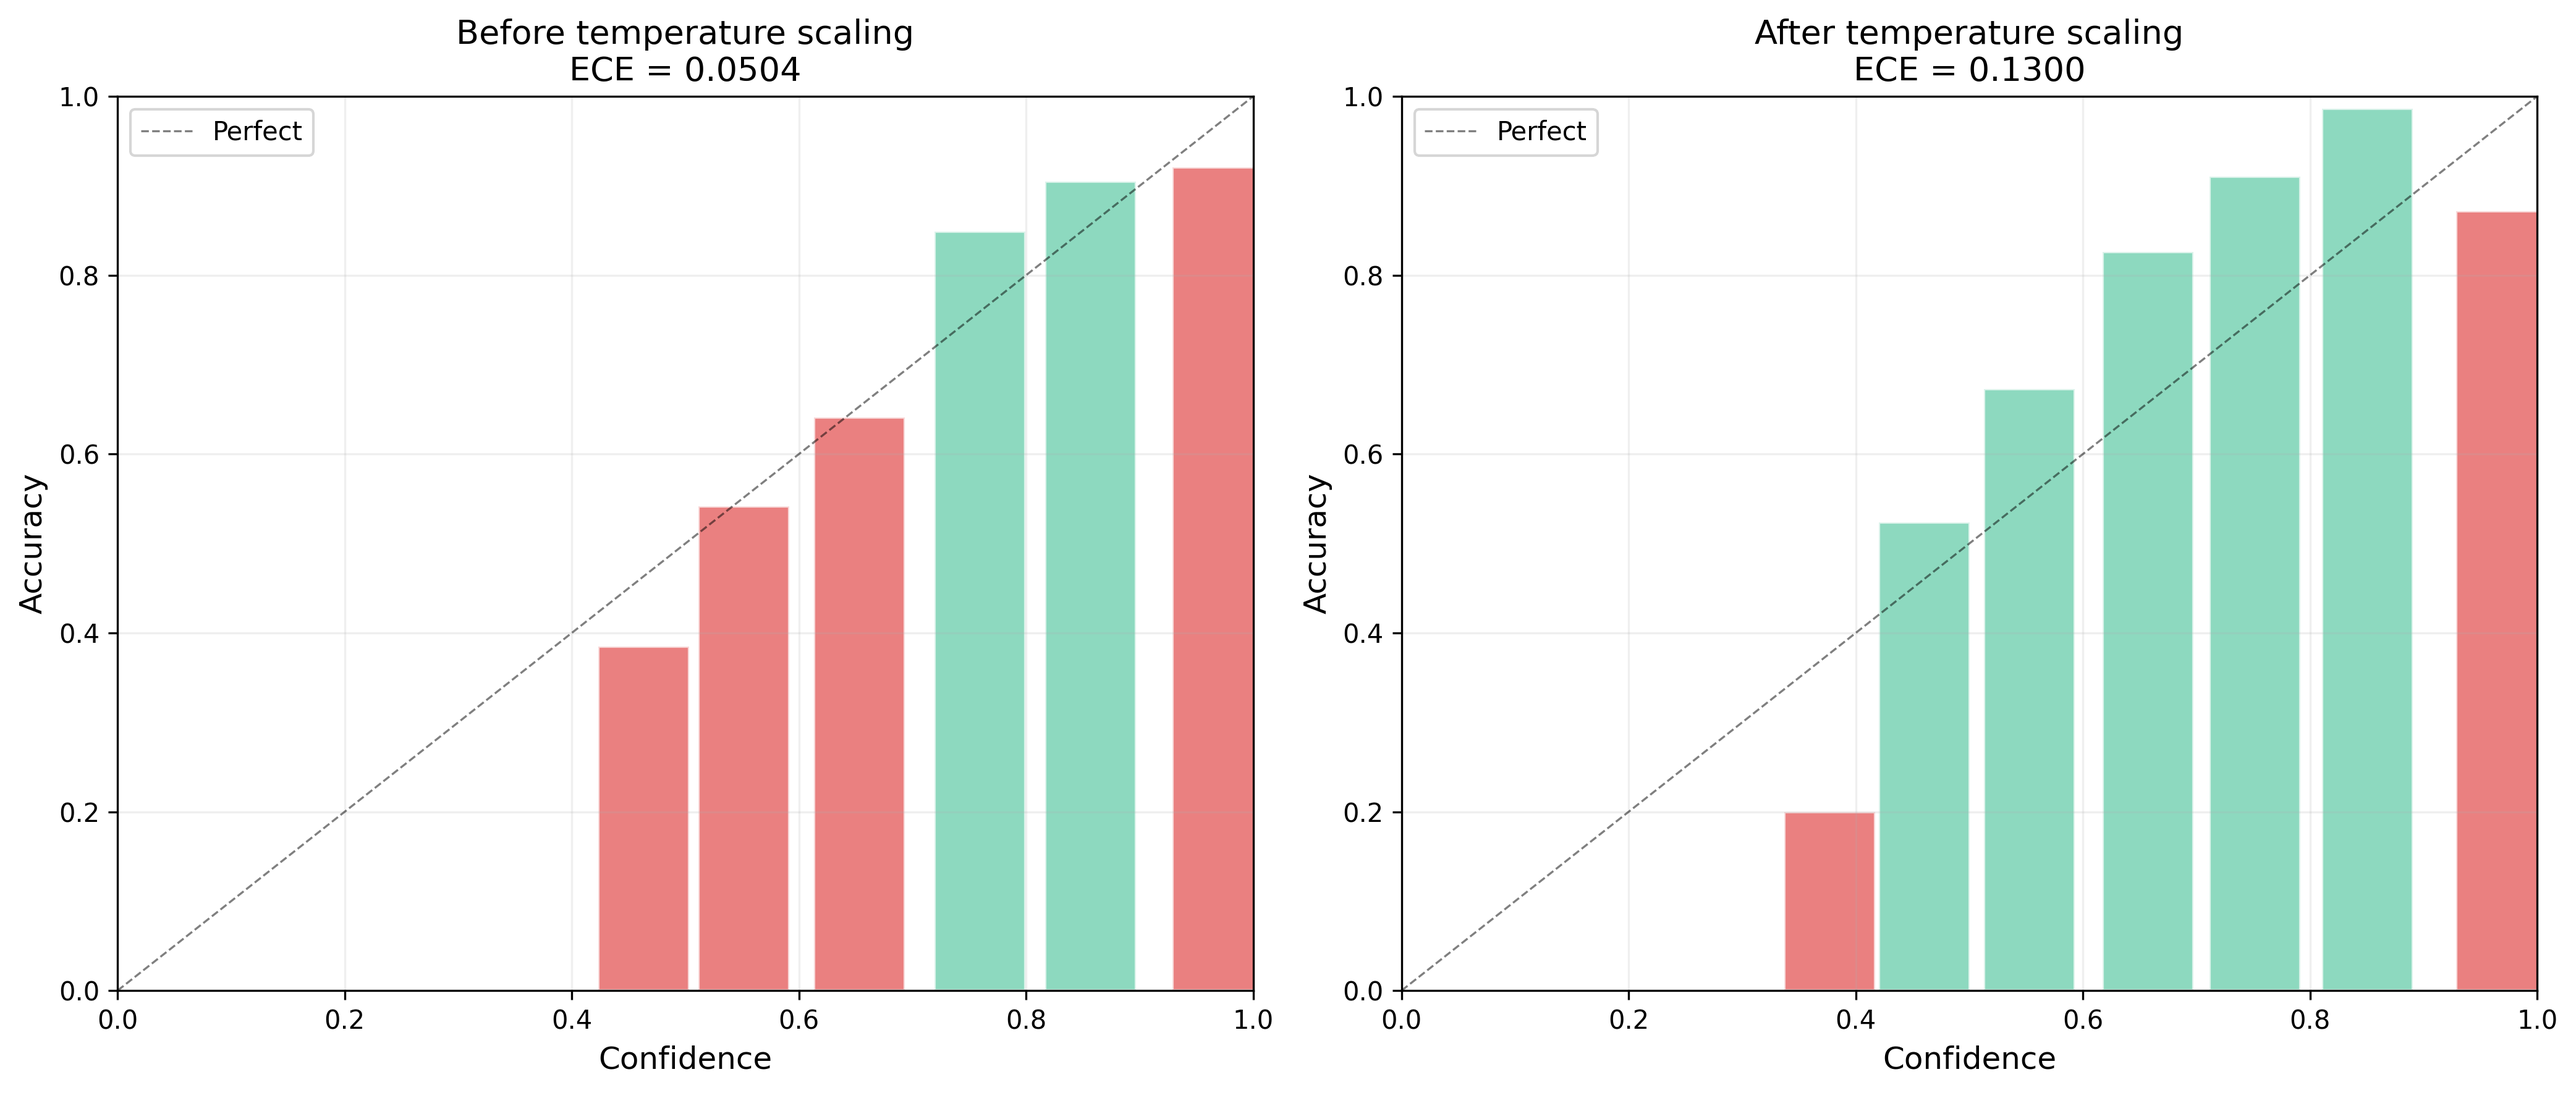
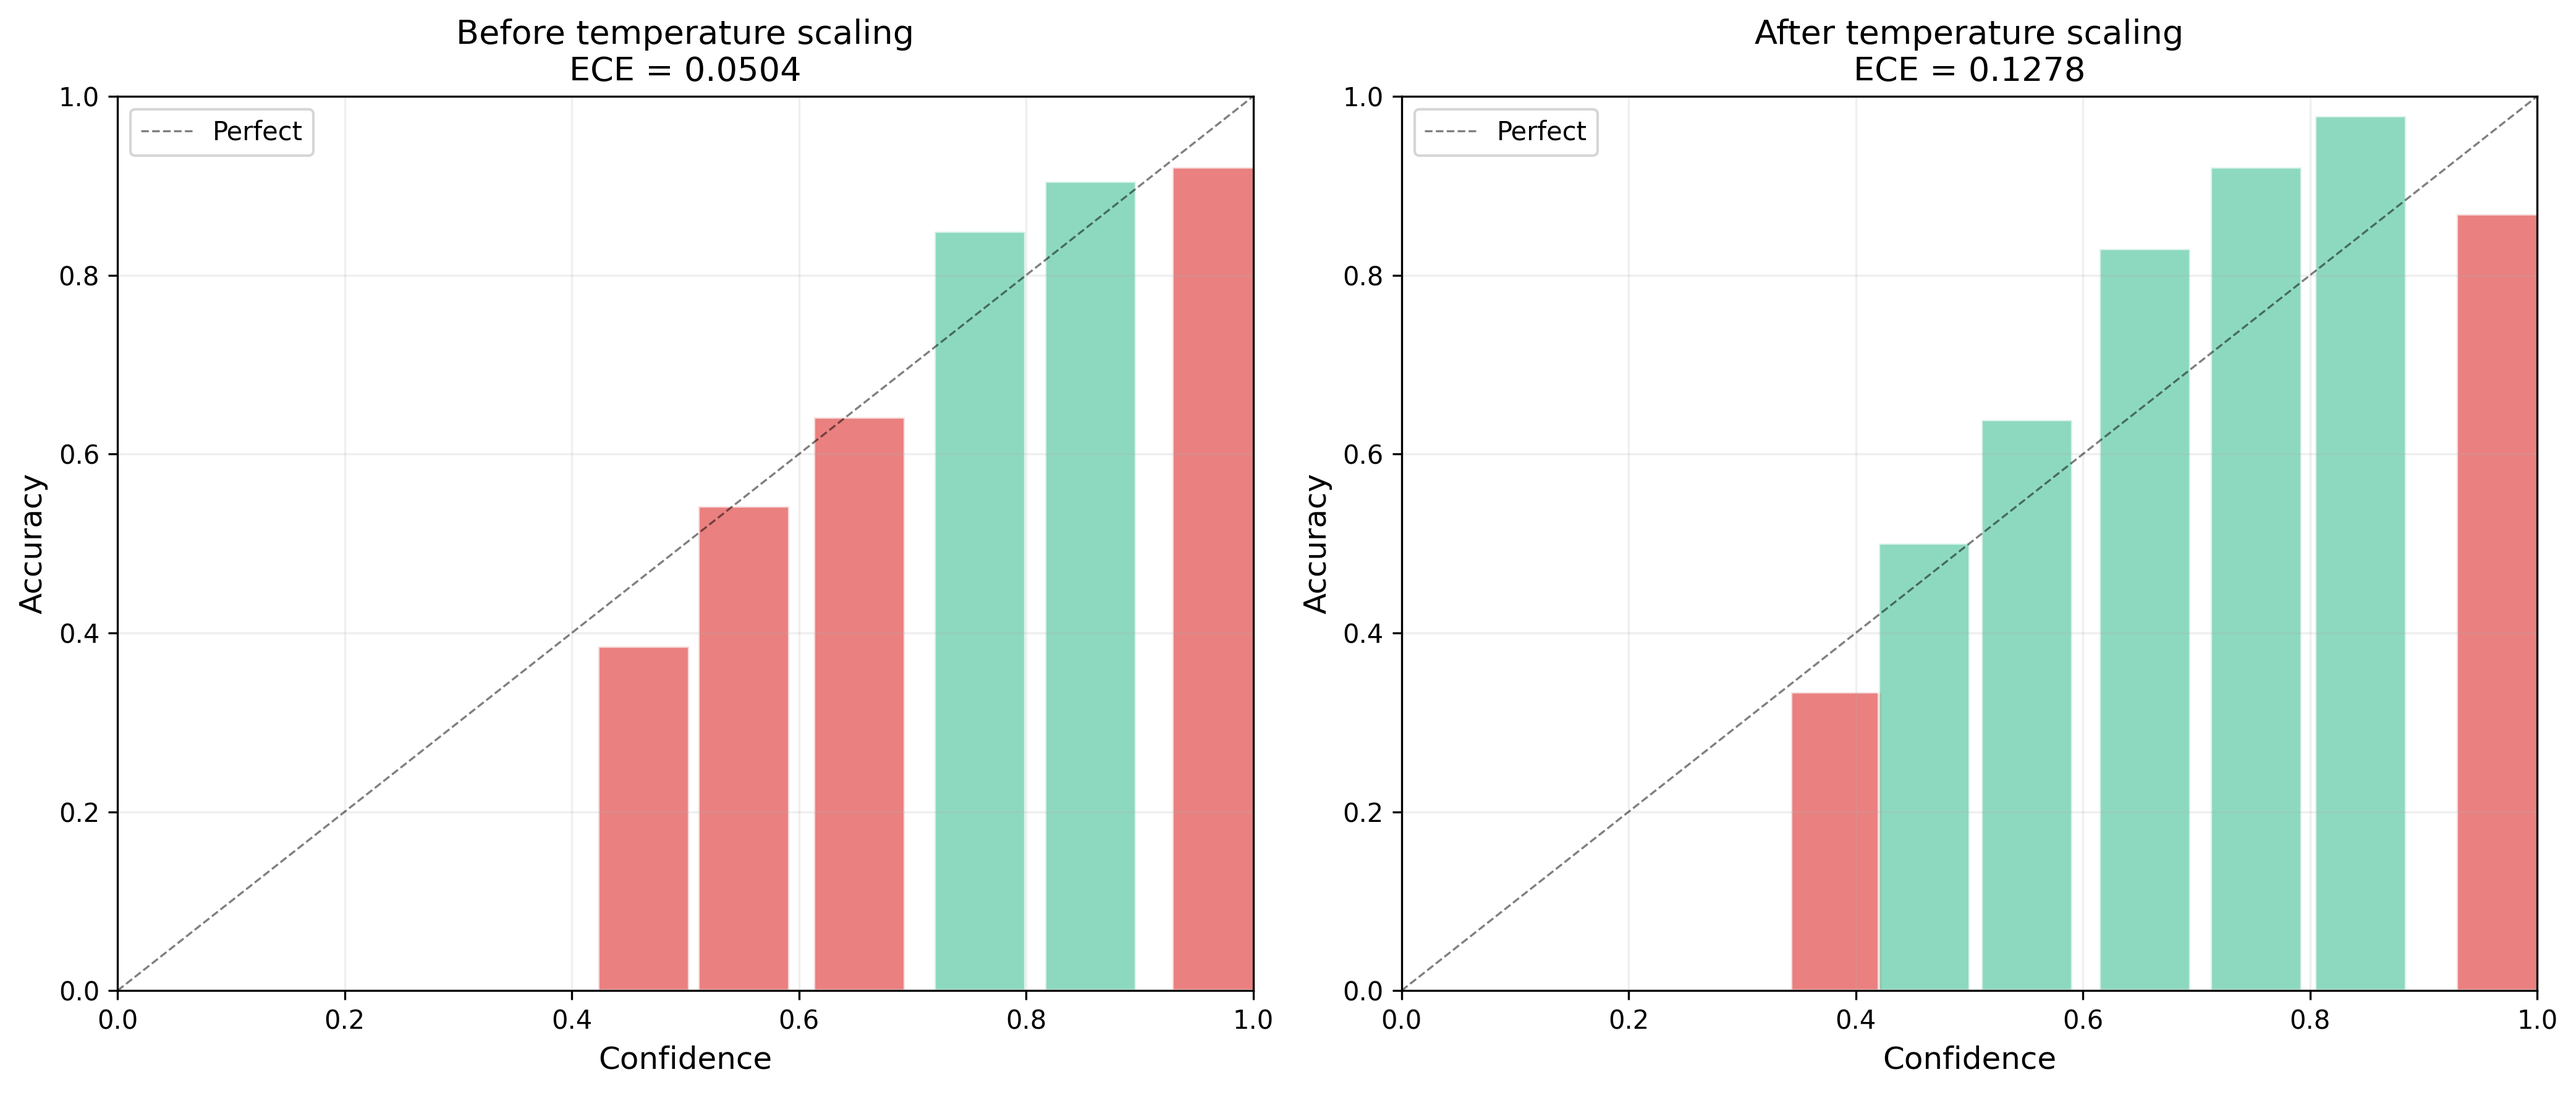
Fix NEEDLE CV fold leakage with GroupKFold by object ID
The 429 pooled NEEDLE-TH predictions cover only 278 unique objects (the
5-model ensemble holds some objects out more than once). Row-wise fold
splitting could place two appearances of the same object in different
folds, leaking its label. Switch needle_04/05 to GroupKFold keyed on ZTF
ID. Also fix a plot label-alignment bug in the vector-scaling comparison.

The qualitative findings hold (global T still fails; SLSN-I overconfident,
TDE underconfident); fold-to-fold variance widens honestly once the leak
is removed (e.g. T_SLSN-I std 0.10 -> 0.29).

diff --git a/src/needle_05_vector_scaling.py b/src/needle_05_vector_scaling.py
@@ -19,20 +19,22 @@ Methodology: same 5-fold CV as script 04 for fair comparison.
 import numpy as np
 from scipy.optimize import minimize
 from scipy.special import softmax, log_softmax
+from sklearn.model_selection import GroupKFold
 import matplotlib
 matplotlib.use('Agg')
 import matplotlib.pyplot as plt
 import os
 
 OUTPUT_DIR = os.path.join(os.path.dirname(__file__), '..', 'outputs')
-PRED_PATH  = os.path.join(OUTPUT_DIR, 'needle_predictions.npz')
+PRED_PATH  = os.path.join(os.path.dirname(__file__), '..', 'data', 'processed', 'needle_predictions.npz')
+os.makedirs(OUTPUT_DIR, exist_ok=True)
 
 CLASS_NAMES = ['SN', 'SLSN-I', 'TDE']
 
-# Reference values from previous scripts
-GLOBAL_T      = 1.5511
+# Reference values from previous scripts (needle_04_temperature.py, GroupKFold-by-object)
+GLOBAL_T      = 1.5530
 ECE_RAW       = 0.0504
-ECE_GLOBAL_T  = 0.1300
+ECE_GLOBAL_T  = 0.1278
 ALERCE_T      = 0.36
 ALERCE_ECE    = 0.259
 
@@ -125,27 +127,28 @@ def fit_vector_T(logits, labels, init=None):
 
 # ── cross-validation ──────────────────────────────────────────────────────────
 
-def run_cv(probs, labels, n_folds=5):
+def run_cv(probs, labels, groups, n_folds=5):
+    """
+    Group-aware (GroupKFold by ZTF object ID) cross-validation.
+
+    Same rationale as needle_04_temperature.py: the 429 pooled predictions
+    span only 278 unique objects (NEEDLE-TH is a 5-model ensemble, so some
+    objects were held out by more than one model). Splitting by row index
+    can leak an object's label/pattern across the train/test boundary;
+    GroupKFold keeps every appearance of an object in the same fold.
+    """
     logits = probs_to_logits(probs)
     n = len(probs)
-    idx = np.arange(n)
-    np.random.seed(42)
-    np.random.shuffle(idx)
 
-    fold_size = n // n_folds
-    fold_T, all_true, all_before, all_after = [], [], [], []
+    gkf = GroupKFold(n_splits=n_folds)
+    fold_T, all_true, all_before, all_after, all_test_idx = [], [], [], [], []
 
-    print(f"\nRunning {n_folds}-fold CV for vector scaling …")
+    print(f"\nRunning {n_folds}-fold group-aware (by ZTF ID) CV for vector scaling …")
     print(f"  {'Fold':>4}  {'T_SN':>7}  {'T_SLSNI':>8}  {'T_TDE':>7}  "
           f"{'ECE_bef':>8}  {'ECE_aft':>8}  {'Brier_bef':>10}  {'Brier_aft':>10}")
     print("  " + "─" * 76)
 
-    for fold in range(n_folds):
-        start = fold * fold_size
-        end   = start + fold_size if fold < n_folds - 1 else n
-        te_idx = idx[start:end]
-        tr_idx = np.concatenate([idx[:start], idx[end:]])
-
+    for fold, (tr_idx, te_idx) in enumerate(gkf.split(np.arange(n), groups=groups)):
         T_vec = fit_vector_T(logits[tr_idx], labels[tr_idx])
         fold_T.append(T_vec)
 
@@ -160,8 +163,9 @@ def run_cv(probs, labels, n_folds=5):
         all_true.append(tl)
         all_before.append(pb)
         all_after.append(pa)
+        all_test_idx.append(te_idx)
 
-    return np.array(fold_T), all_true, all_before, all_after
+    return np.array(fold_T), all_true, all_before, all_after, np.concatenate(all_test_idx)
 
 
 # ── plotting ──────────────────────────────────────────────────────────────────
@@ -252,10 +256,11 @@ def main():
     data   = np.load(PRED_PATH, allow_pickle=True)
     probs  = data['probs']
     labels = data['labels']
-    print(f"Loaded {len(probs)} predictions")
+    ztf_ids = data['ztf_ids']
+    print(f"Loaded {len(probs)} predictions ({len(set(ztf_ids.tolist()))} unique objects)")
 
-    # ── cross-validated vector scaling ────────────────────────────────────────
-    fold_T, all_true, all_before, all_after = run_cv(probs, labels)
+    # ── cross-validated vector scaling (grouped by object ID) ─────────────────
+    fold_T, all_true, all_before, all_after, test_idx_order = run_cv(probs, labels, groups=ztf_ids)
 
     combined_true   = np.concatenate(all_true)
     combined_before = np.concatenate(all_before)
@@ -319,16 +324,18 @@ def main():
     print(f"  {'T_TDE':22} {T_mean[2]:>15.4f}  {'0.36':>8}")
 
     # ── global-T probs for comparison plot ────────────────────────────────────
+    # Reordered to match test_idx_order so every panel shares the same row
+    # alignment as combined_true/combined_before/combined_after (previously
+    # this array was left in original row order while the other three were
+    # in fold-concatenation order, silently pairing global-T probs with the
+    # wrong labels in the middle panel).
     from scipy.special import softmax as sp_softmax
     logits_all   = probs_to_logits(probs)
-    probs_global = sp_softmax(logits_all / GLOBAL_T, axis=1)
+    probs_global = sp_softmax(logits_all / GLOBAL_T, axis=1)[test_idx_order]
 
     # ── plots ─────────────────────────────────────────────────────────────────
     plot_comparison(
-        combined_before, probs_global[np.concatenate([
-            np.where(np.isin(np.arange(len(probs)), fold_idx))[0]
-            for fold_idx in [np.arange(len(probs))]   # full set
-        ])], combined_after, combined_true,
+        combined_before, probs_global, combined_after, combined_true,
         save_path=os.path.join(OUTPUT_DIR, 'needle_vector_scaling_comparison.png'),
     )
 

diff --git a/src/needle_04_temperature.py b/src/needle_04_temperature.py
@@ -18,11 +18,13 @@ Methodology:
 import numpy as np
 from scipy.optimize import minimize_scalar
 from scipy.special import softmax
+from sklearn.model_selection import GroupKFold
 import matplotlib.pyplot as plt
 import os
 
 OUTPUT_DIR = os.path.join(os.path.dirname(__file__), '..', 'outputs')
-PRED_PATH = os.path.join(OUTPUT_DIR, 'needle_predictions.npz')
+PRED_PATH = os.path.join(os.path.dirname(__file__), '..', 'data', 'processed', 'needle_predictions.npz')
+os.makedirs(OUTPUT_DIR, exist_ok=True)
 
 CLASS_NAMES = ['SN', 'SLSN-I', 'TDE']
 
@@ -88,35 +90,36 @@ def fit_temperature(logits, labels):
     return result.x
 
 
-def run_cross_validation(probs, labels, n_folds=5):
+def run_cross_validation(probs, labels, groups, n_folds=5):
     """
     5-fold cross-validation for temperature scaling.
-    
+
     This avoids the methodological issue of fitting T on the same data
     you evaluate on (which was identified as a critical fix in your
     ALeRCE paper revision).
+
+    Folds are grouped by ZTF object ID (GroupKFold), not by row. NEEDLE-TH
+    is a 5-model ensemble and the pooled 429 predictions cover only 278
+    unique objects — 43 objects appear 2-5x (once per model that held
+    them out). A plain row-wise shuffle-split can put one appearance of
+    an object in the training fold and another appearance of the SAME
+    object in the "held-out" test fold, leaking its true label (and a
+    correlated confidence pattern) across the split. GroupKFold guarantees
+    every appearance of a given object lands in the same fold.
     """
     logits = probs_to_logits(probs)
     n = len(probs)
-    indices = np.arange(n)
-    np.random.seed(42)
-    np.random.shuffle(indices)
-    
-    fold_size = n // n_folds
+
+    gkf = GroupKFold(n_splits=n_folds)
+
     fold_T_values = []
     all_test_true = []
     all_test_proba_before = []
     all_test_proba_after = []
-    
-    print(f"\nRunning {n_folds}-fold stratified cross-validation...")
-    
-    for fold in range(n_folds):
-        # Split
-        test_start = fold * fold_size
-        test_end = test_start + fold_size if fold < n_folds - 1 else n
-        test_idx = indices[test_start:test_end]
-        train_idx = np.concatenate([indices[:test_start], indices[test_end:]])
-        
+
+    print(f"\nRunning {n_folds}-fold group-aware (by ZTF ID) cross-validation...")
+
+    for fold, (train_idx, test_idx) in enumerate(gkf.split(np.arange(n), groups=groups)):
         # Fit T on training folds
         T = fit_temperature(logits[train_idx], labels[train_idx])
         fold_T_values.append(T)
@@ -195,11 +198,17 @@ def main():
     data = np.load(PRED_PATH, allow_pickle=True)
     probs = data['probs']
     labels = data['labels']
-    
-    print(f"Loaded {len(probs)} predictions")
-    
-    # === Cross-validated temperature scaling ===
-    fold_T, all_true, all_before, all_after = run_cross_validation(probs, labels)
+    ztf_ids = data['ztf_ids']
+
+    n_unique = len(set(ztf_ids.tolist()))
+    print(f"Loaded {len(probs)} predictions ({n_unique} unique objects)")
+    if n_unique < len(probs):
+        print(f"  NOTE: {len(probs) - n_unique} repeat object-appearances across "
+              f"the 5 ensemble models — using GroupKFold(groups=ztf_id) so no "
+              f"object crosses the train/test fold boundary.")
+
+    # === Cross-validated temperature scaling (grouped by object ID) ===
+    fold_T, all_true, all_before, all_after = run_cross_validation(probs, labels, groups=ztf_ids)
     
     # Combine all folds
     combined_true = np.concatenate(all_true)
